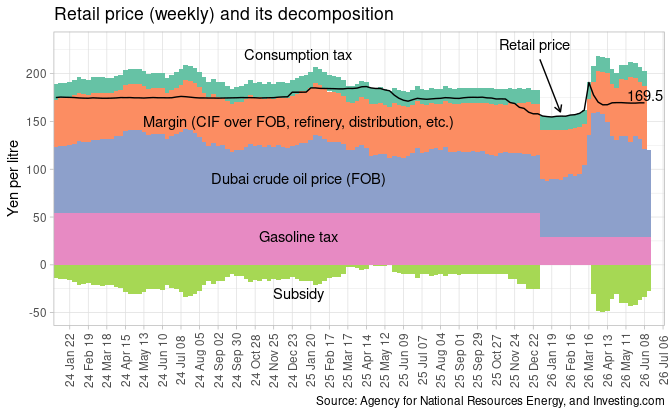
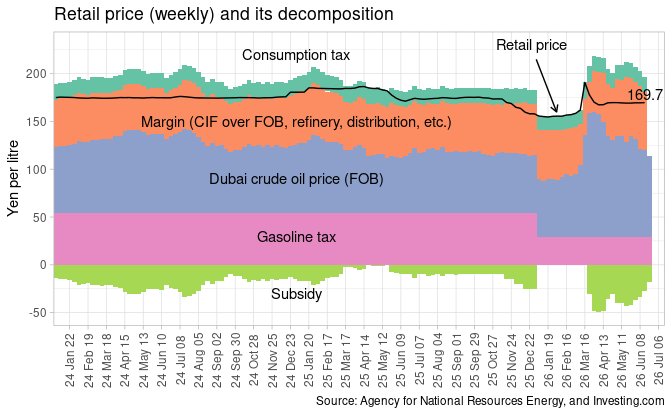
weekly update on June 17, 2026

diff --git a/README.md b/README.md
@@ -25,7 +25,7 @@ library(tidyquant)
 theme_set(theme_light())
 ```
 
-Updated: 2026-06-10
+Updated: 2026-06-17
 
 ## Weekly update
 
@@ -38,7 +38,7 @@ every Wednesday, usually. Sometimes, due to holidays, target dates and
 publishing dates are delayed.
 
 ``` r
-retail <- read_excel("data/260610s5.xlsx", 
+retail <- read_excel("data/260617s5.xlsx", 
                      sheet = "レギュラー",
                      col_types = c("text", "date", rep("numeric", 59))) |> 
   select(2:3) |> 
@@ -305,7 +305,8 @@ meti_dubai_weekly <- tribble(
 "2026-05-12", 105.7, # 05-18(Mon) 105.78 * 158.84 / 159
 "2026-05-19", 103.3, # 05-25(Mon) 103.36 * 158.90 / 159
 "2026-05-26", 92.7, # 06-01(Mon) 92.32 * 159.66 / 159
-"2026-06-02", 91.8 # 06-08(Mon) 91.17 * 160.18 / 159
+"2026-06-02", 91.8, # 06-08(Mon) 91.17 * 160.18 / 159
+"2026-06-09", 84.9 # 06-15(Mon) 84.23 * 160.33 / 159
 ) |> 
   fill(price, .direction = "down")
 ```
@@ -552,7 +553,8 @@ meti_subsidy <- tribble(
 "2026-05-12", 41.8,
 "2026-05-19", 37.2,
 "2026-05-26", 33.3,
-"2026-06-02", 27.0
+"2026-06-02", 27.0,
+"2026-06-09", 18.2
 ) |> 
   fill(subsidy, .direction = "down")
 ```